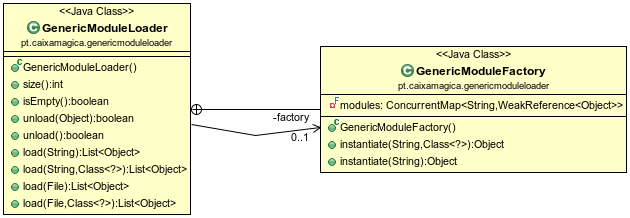
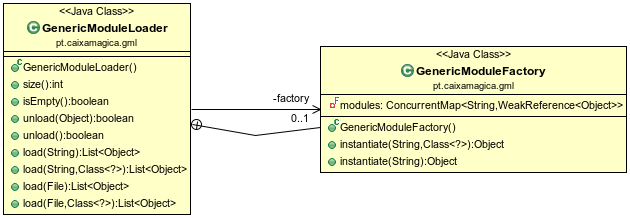
Changed package name.

diff --git a/src/test/java/pt/caixamagica/gml/GenericModuleLoaderTest.java b/src/test/java/pt/caixamagica/gml/GenericModuleLoaderTest.java
@@ -6,7 +6,7 @@
  * 
  */
 
-package pt.caixamagica.genericmoduleloader;
+package pt.caixamagica.gml;
 
 import java.io.FileNotFoundException;
 import java.io.IOException;
@@ -19,8 +19,8 @@ import junit.framework.TestCase;
 
 import org.junit.Test;
 
-import pt.caixamagica.genericmoduleloader.GenericModuleLoader;
-import pt.caixamagica.genericmoduleloader.modules.IModule;
+import pt.caixamagica.gml.GenericModuleLoader;
+import pt.caixamagica.gml.modules.IModule;
 
 public class GenericModuleLoaderTest extends TestCase {
 	public GenericModuleLoaderTest(String name) {
@@ -29,7 +29,7 @@ public class GenericModuleLoaderTest extends TestCase {
 	
 	@Test
 	public void testLoadModulesWhoImplementIModuleInterface() {
-		String path = "build/test-classes/pt/caixamagica/genericmoduleloader/modules";
+		String path = "build/test-classes/pt/caixamagica/gml/modules";
 		GenericModuleLoader loader = new GenericModuleLoader();
 		
 		try {
@@ -46,7 +46,7 @@ public class GenericModuleLoaderTest extends TestCase {
 
 	@Test
 	public void testLoadAllModules() {
-		String path = "build/test-classes/pt/caixamagica/genericmoduleloader/modules";
+		String path = "build/test-classes/pt/caixamagica/gml/modules";
 		GenericModuleLoader loader = new GenericModuleLoader();
 		
 		try {
@@ -98,7 +98,7 @@ public class GenericModuleLoaderTest extends TestCase {
 	
 	@Test
 	public void testUnloadModule1() {
-		String path = "build/test-classes/pt/caixamagica/genericmoduleloader/modules";
+		String path = "build/test-classes/pt/caixamagica/gml/modules";
 		GenericModuleLoader loader = new GenericModuleLoader();
 		
 		try {

diff --git a/src/test/java/pt/caixamagica/gml/modules/Module1.java b/src/test/java/pt/caixamagica/gml/modules/Module1.java
@@ -1,4 +1,4 @@
-package pt.caixamagica.genericmoduleloader.modules;
+package pt.caixamagica.gml.modules;
 
 public class Module1 implements IModule {
 	@Override

diff --git a/src/main/java/pt/caixamagica/gml/GenericModuleLoader.java b/src/main/java/pt/caixamagica/gml/GenericModuleLoader.java
@@ -6,7 +6,7 @@
  * 
  */
 
-package pt.caixamagica.genericmoduleloader;
+package pt.caixamagica.gml;
 
 import java.io.DataInputStream;
 import java.io.File;

diff --git a/src/test/java/pt/caixamagica/gml/modules/Module2.java b/src/test/java/pt/caixamagica/gml/modules/Module2.java
@@ -1,4 +1,4 @@
-package pt.caixamagica.genericmoduleloader.modules;
+package pt.caixamagica.gml.modules;
 
 public class Module2 {
 	public void print() {

diff --git a/src/test/java/pt/caixamagica/gml/modules/IModule.java b/src/test/java/pt/caixamagica/gml/modules/IModule.java
@@ -1,0 +1,5 @@
+package pt.caixamagica.gml.modules;
+
+public interface IModule {
+	void print();
+}
